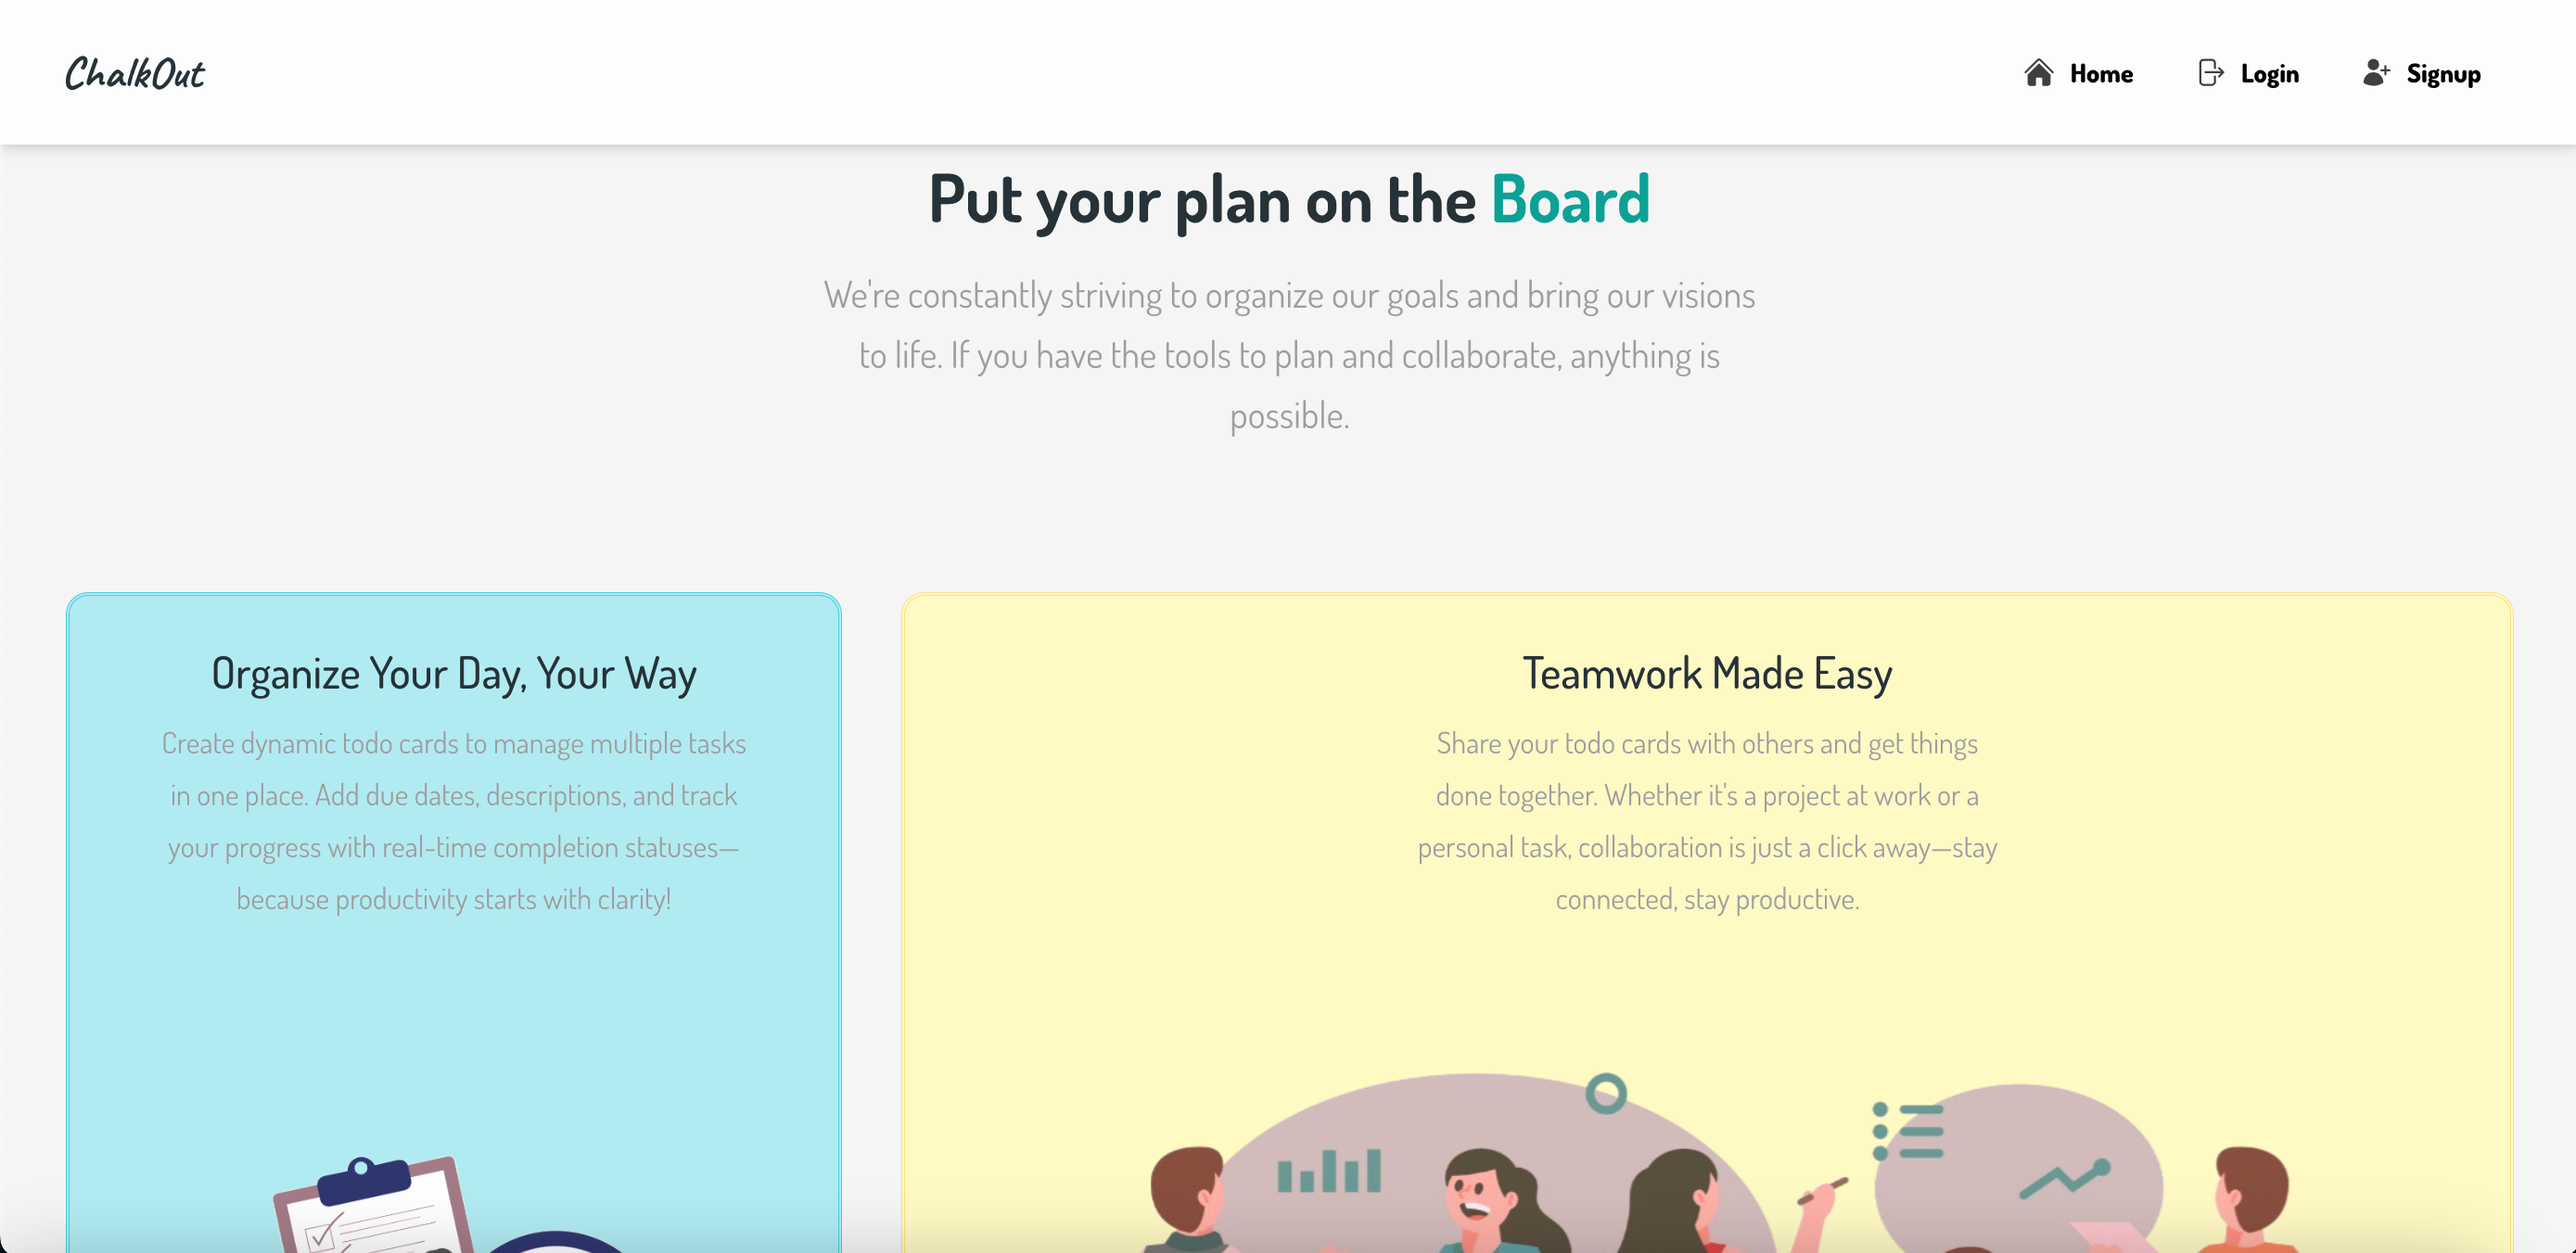
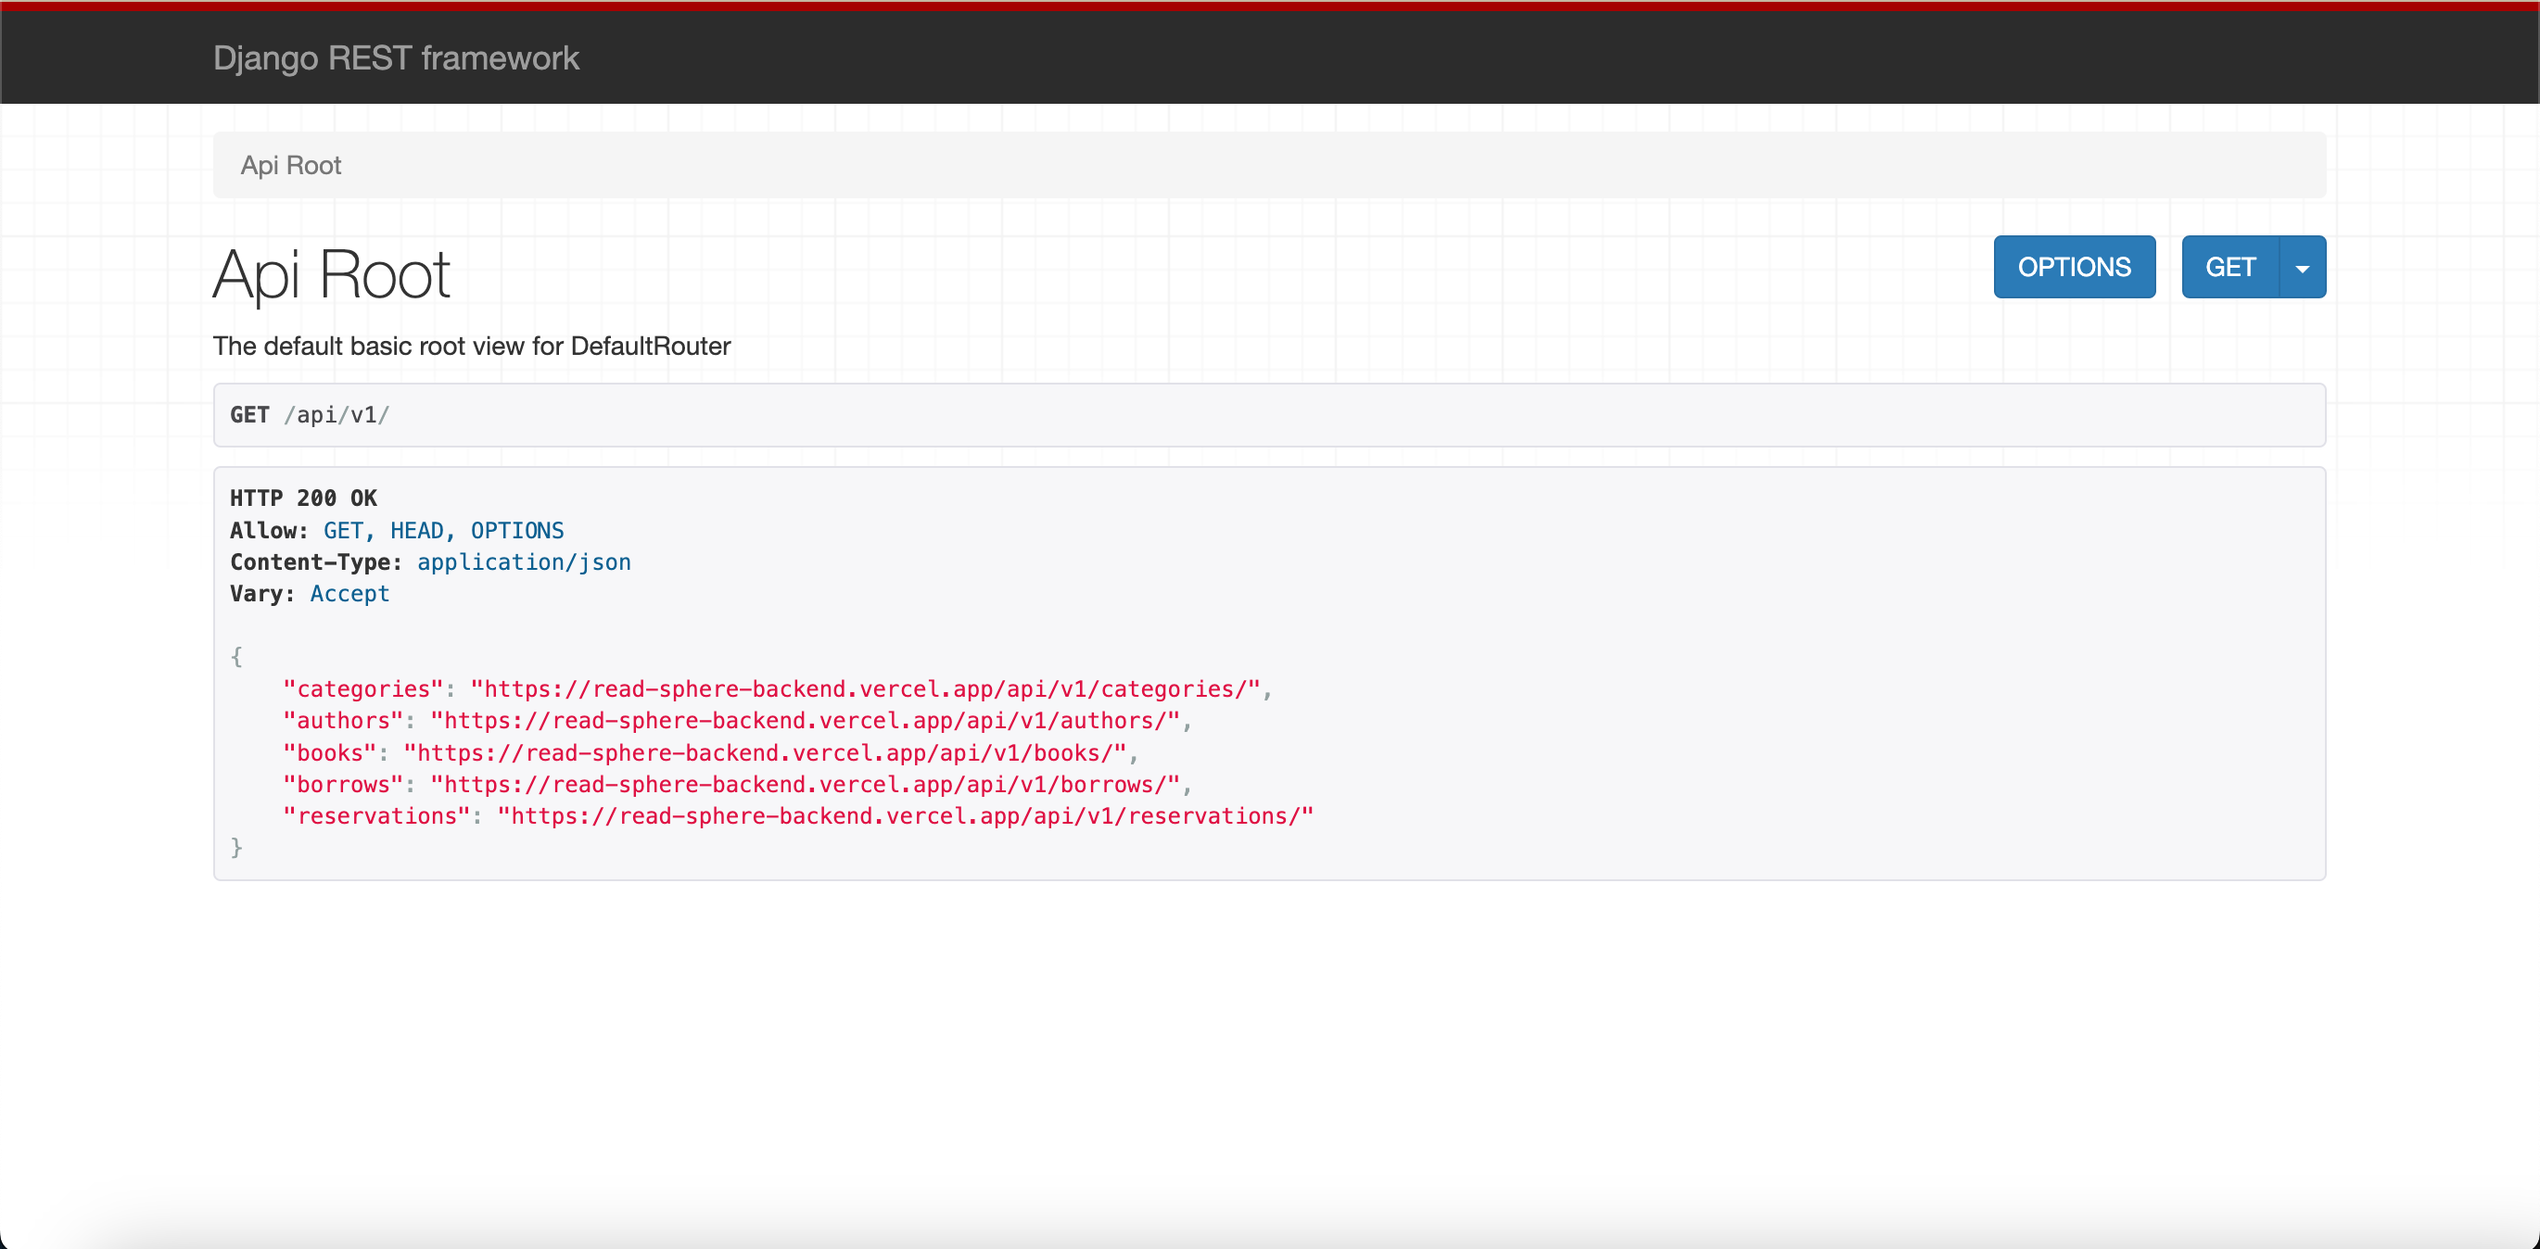
updated project

diff --git a/index.html b/index.html
@@ -178,7 +178,7 @@
                     <a href="https://vizwiz-correlationmatrix.onrender.com/" target="_blank" class="btn">
                       <span class="w-25 h2-color"><i class="fa-solid fa-globe"></i></span>
                     </a>
-                    <a href="#" class="btn">
+                    <a href="https://github.com/mMahnoor/vizWiz_app" class="btn">
                         <span class="w-25 h2-color"><i class="fa-solid fa-file-code"></i></span>
                     </a>
                   </div>
@@ -206,41 +206,29 @@
                   <div class="carousel-item">
                     <img src="./images/project_3/2.png" class="d-block w-100" alt="...">
                   </div>
-                  <div class="carousel-item">
-                    <img src="./images/project_3/5.png" class="d-block w-100" alt="...">
-                  </div>
-                  <div class="carousel-item">
-                    <img src="./images/project_3/6.png" class="d-block w-100" alt="...">
-                  </div>
-                  <div class="carousel-item">
-                    <img src="./images/project_3/8.png" class="d-block w-100" alt="...">
-                  </div>
-                  <div class="carousel-item">
-                    <img src="./images/project_3/9.png" class="d-block w-100" alt="...">
-                  </div>
                 </div>
               </div>
             </div>
             <div class="col-lg-6 col-12 bg-dark bg-opacity-75 rounded">
               <div class="card-body">
                 <div class="d-flex justify-content-between align-items-center">
-                  <h5 class="card-title m-0">ChalkOut</h5>
+                  <h5 class="card-title m-0">ReadSphere</h5>
                   <div class="d-flex justify-content-center align-items-center">
-                    <a href="#" class="btn">
+                    <a href="https://read-sphere-backend.vercel.app/swagger/" class="btn">
                       <span class="w-25 h2-color"><i class="fa-solid fa-globe"></i></span>
                     </a>
-                    <a href="#" class="btn">
+                    <a href="https://github.com/mMahnoor/ReadSphere-Backend" class="btn">
                         <span class="w-25 h2-color"><i class="fa-solid fa-file-code"></i></span>
                     </a>
                   </div>
                 </div>
-                <p class="card-text">Chalkout is a smart and collaborative todo app designed to streamline task management. Users can create and manage todo cards with detailed task lists, due dates, and progress tracking. Each card supports real-time sharing, enabling team collaboration. Visual reports and performance graphs help users stay on top of their productivity.</p>
-                <span class="badge text-bg-secondary">React</span>
-                <span class="badge text-bg-secondary">Tailwind CSS</span>
-                <span class="badge text-bg-secondary">Material Tailwind</span>
+                <p class="card-text">Readsphere is a Library Management System built with Django Rest Framework (DRF). It provides a robust API backend for managing books, authors, categories, and library transactions like borrowing, returning, reserving, and reviewing books.</p>
                 <span class="badge text-bg-secondary">Django</span>
-                <span class="badge text-bg-secondary">SQLite</span>
                 <span class="badge text-bg-secondary">DRF</span>
+                <span class="badge text-bg-secondary">Simple JWT</span>
+                <span class="badge text-bg-secondary">Swagger</span>
+                <span class="badge text-bg-secondary">Supabase</span>
+                <span class="badge text-bg-secondary">Vercel</span>
               </div>
             </div>
           </div>
